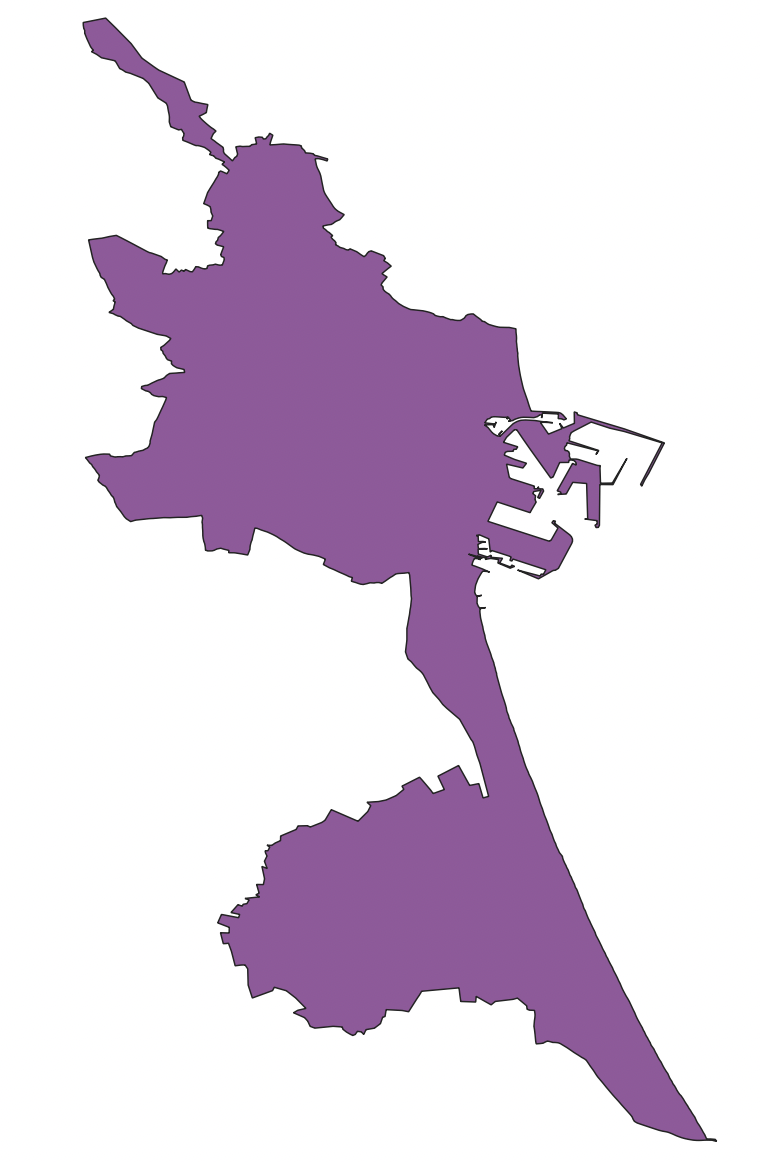
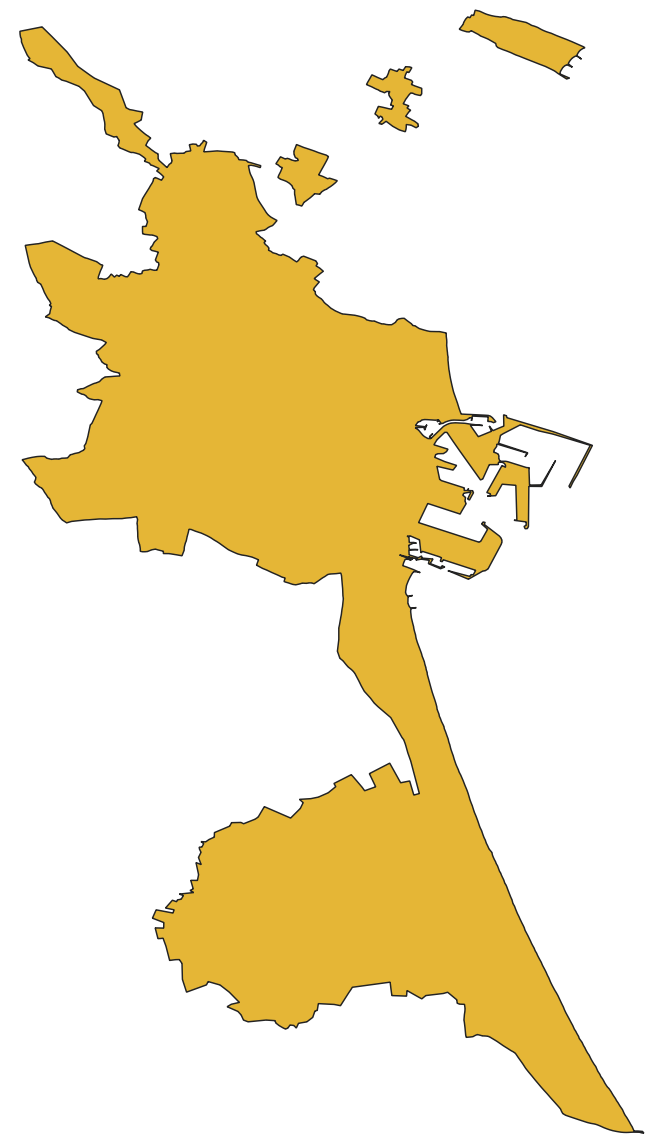
Handle multi-polygon cities
Handles cities which are composed of multiple disconnected polygons.

Fixes PeopleForBikes/brokenspoke-analyzer#19

diff --git a/brokenspoke_analyzer/core/analysis.py b/brokenspoke_analyzer/core/analysis.py
@@ -158,10 +158,8 @@ def create_synthetic_population(area, length, width, population=100):
     cols = list(np.arange(xmin, xmax + width, width))
     rows = list(np.arange(ymin, ymax + length, length))
 
-    # Extract the biggest region.
-    boundaries = max(
-        mercator_area.geometry.explode(index_parts=True), key=lambda a: a.area
-    )
+    # Extract all the boundaries.
+    boundaries = mercator_area.geometry.explode(index_parts=True)
 
     # Compute the cells.
     cells = []
@@ -178,7 +176,7 @@ def create_synthetic_population(area, length, width, population=100):
             )
 
             # Append it if it intersects with the biggest region.
-            if cell.intersects(boundaries):
+            if any(map(cell.intersects, boundaries)):
                 cells.append(cell)
 
     # Create a geodataframe made of the cells overlapping with the area.
